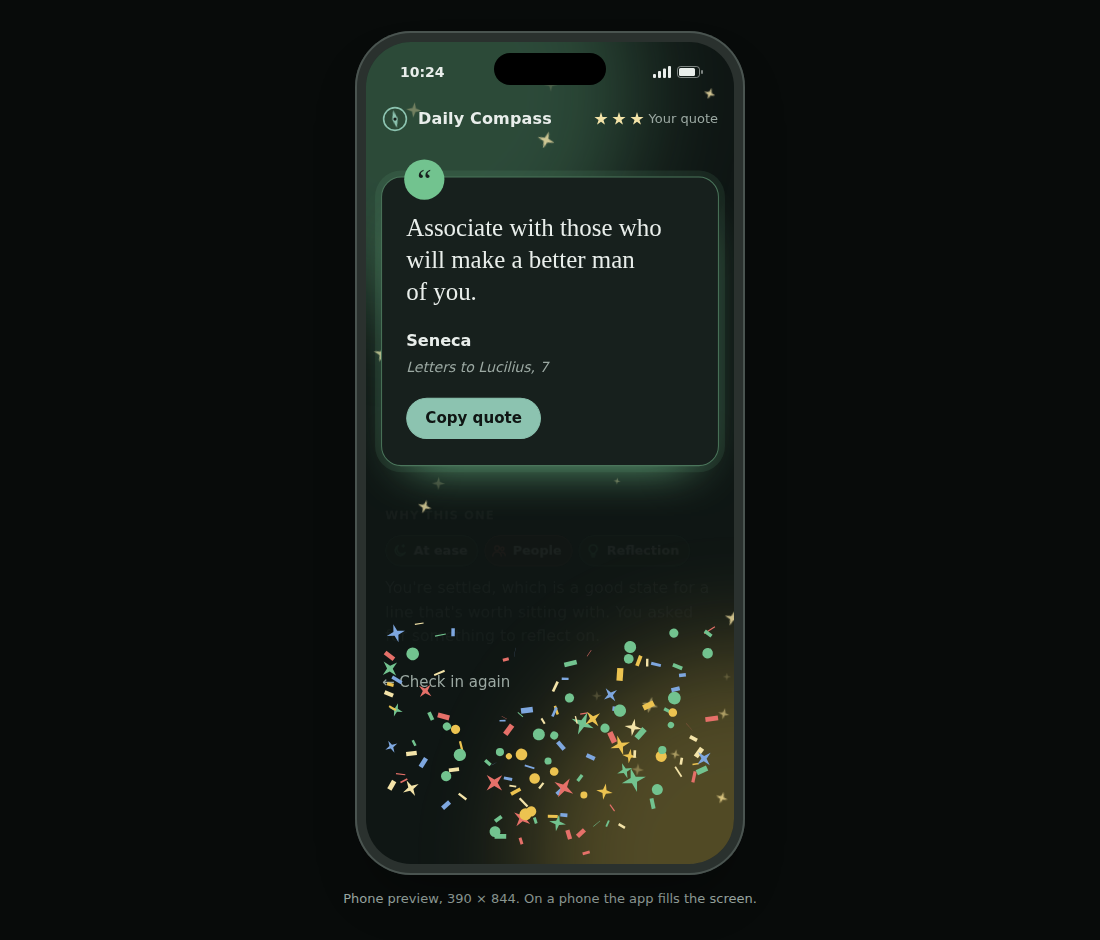
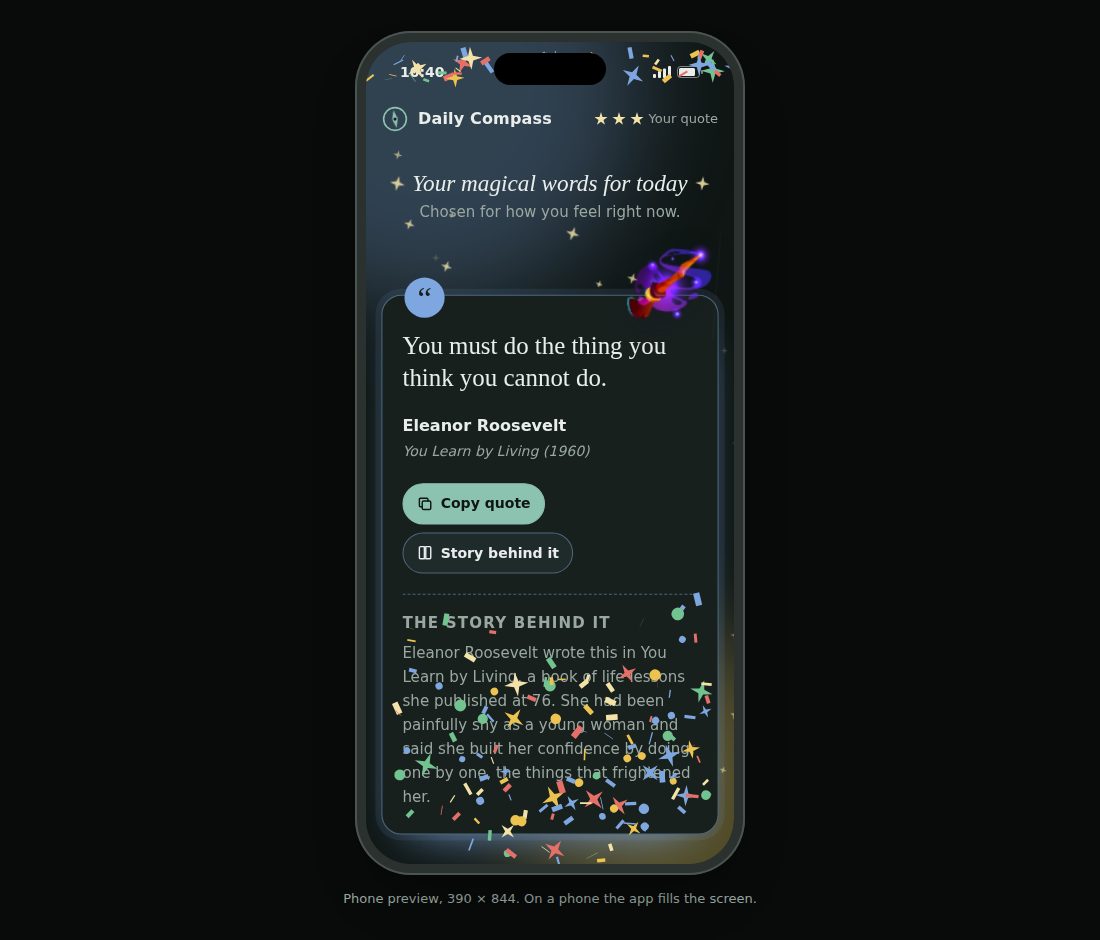
Daily Compass: story behind each quote, daily words, magic charm art
- Add Story behind it: a short sourced background note for all quotes
  (stories.js), toggled under the quote.
- Title the result 'Your magical words for today' and add a come-back-
  tomorrow note with a countdown; remove Check in again. The day's result
  is kept until local midnight (#fresh starts over for testing).
- Show one of five magic charm illustrations with each quote, picked at
  random per quote and day.
- Replace three quotes from religious texts (Thich Nhat Hanh's monastic
  training book, Pema Chodron's teachings, Tagore's prayer) with secular
  ones.

Claude-Session: https://claude.ai/code/session_01Ms5qba7Kw5KonEYGK72kCu

Changed region(s): [[0.34, 0.1543, 0.68, 0.9255], [0.5564, 0.0309, 0.6491, 0.0926], [0.3709, 0.0309, 0.4636, 0.0926]]

diff --git a/quote-app/stories.js b/quote-app/stories.js
@@ -1,0 +1,72 @@
+// "The story behind it": a short, factual background note for every quote in
+// quotes.js, keyed by quote id. Keep each to two or three plain sentences:
+// who said it, where and when, and what was going on.
+window.STORIES = {
+  "seneca-postpone": "Seneca opens his very first letter to his friend Lucilius with this warning. He wrote the letters around 65 AD, after retiring from years as adviser to Emperor Nero, and the whole letter is about time being the only thing we truly own.",
+  "eroosevelt-cannot": "Eleanor Roosevelt wrote this in You Learn by Living, a book of life lessons she published at 76. She had been painfully shy as a young woman and said she built her confidence by doing, one by one, the things that frightened her.",
+  "troosevelt-whatyouhave": "In his 1913 autobiography, Theodore Roosevelt says he heard this from Squire Bill Widener of Widener's Valley, Virginia. Roosevelt called it the best summary of practical duty he knew.",
+  "jobs-hungry": "Steve Jobs ended his 2005 Stanford graduation speech with these words. They were printed on the back cover of the final issue of the Whole Earth Catalog in 1974, a counterculture magazine Jobs loved as a teenager.",
+  "jobs-time": "This comes from the part of Jobs's 2005 Stanford speech about death. A year earlier he had been diagnosed with pancreatic cancer, and he told the students that remembering he would die was the best tool he knew for making big choices.",
+  "gretzky-shots": "Wayne Gretzky, hockey's all-time leading scorer, said this in 1983 when Hockey News editor Bob McKenzie asked why he shot so often. That season he scored 71 goals.",
+  "thoreau-dreams": "This line is from the conclusion of Walden. From 1845 to 1847 Thoreau lived in a small cabin he built himself beside Walden Pond in Massachusetts, as an experiment in living simply and on purpose.",
+  "oliver-wild": "These are the closing lines of \"The Summer Day\". The poet watches a grasshopper eating sugar from her hand, admits she doesn't know exactly what a prayer is, but does know how to pay attention, and then turns the question to the reader.",
+  "clear-systems": "James Clear's Atomic Habits (2018) argues that results come from small daily routines, not from big goals. This line sums up the book's first chapter, and the book has sold over 20 million copies.",
+  "durant-habit": "This is usually credited to Aristotle, but the words are Will Durant's. In The Story of Philosophy (1926) he used them to sum up Aristotle's idea, from the Nicomachean Ethics, that character is built by repeated action.",
+  "aurelius-beone": "Marcus Aurelius was Roman emperor from 161 to 180 AD. Meditations was his private notebook, written in Greek largely during military campaigns, and never meant for anyone else to read.",
+  "mlk-moving": "Martin Luther King Jr. said this to students at Spelman College in Atlanta in April 1967, a year before he was killed. He was urging them to keep working for justice even when progress felt slow.",
+  "tolkien-time": "Gandalf says this to Frodo in the Mines of Moria, when Frodo wishes the Ring had never come to him. Tolkien wrote most of the book during and after World War II.",
+  "seneca-imagination": "From Seneca's 13th letter to Lucilius, which is about fear. He advises checking whether a trouble is actually happening, or only expected, because most of what we dread never arrives.",
+  "epictetus-opinions": "Epictetus was born a slave in the Roman Empire around 50 AD and later became a famous teacher. His student Arrian wrote down his lessons, and this is from the Enchiridion, a pocket handbook of them.",
+  "aurelius-little": "Another note to himself from the emperor's private notebook, Meditations (Book 7). He ruled the most powerful empire on Earth and still reminded himself that contentment comes from how you think.",
+  "lamott-unplug": "Anne Lamott shared this in her 2017 TED talk \"12 truths I learned from life and writing\". The talk lists what she had learned from decades of writing, recovery and raising a son, and this is its most quoted line.",
+  "tolstoy-patience": "In War and Peace, General Kutuzov says this as the Russian army faces Napoleon's invasion in 1812. Instead of risking everything in battle, he waited, and the French army eventually wore itself out and retreated.",
+  "dillard-days": "From The Writing Life (1989), Annie Dillard's short book about the daily work of writing. She argues that a schedule shapes a life, because the small hours add up to the whole.",
+  "watts-dance": "Alan Watts was a British writer who introduced Eastern philosophy to Western readers. In The Wisdom of Insecurity (1951) he argued that chasing total security only makes us more anxious.",
+  "lee-water": "Bruce Lee said this playing a martial-arts teacher in a 1971 episode of the TV series Longstreet. The words were his own philosophy, and he repeated them in an interview the same year.",
+  "saunders-plans": "Many people know this from John Lennon's 1980 song \"Beautiful Boy\", but cartoonist Allen Saunders published it in Reader's Digest in 1957.",
+  "lorde-care": "Audre Lorde wrote this in A Burst of Light (1988), essays from the years she lived with cancer. As a Black lesbian poet and activist, she argued that looking after yourself is strength, not selfishness.",
+  "rogers-like": "Fred Rogers closed many episodes of Mister Rogers' Neighborhood (1968 to 2001) by telling children this. He believed every child needed to hear that they were valued just as they were.",
+  "frost-through": "From \"A Servant to Servants\" (1914), a poem in the voice of an overworked farm wife. She says she sees no way out of her hard life except to keep going through it.",
+  "alcott-storms": "Amy March says this in Little Women (1868). Alcott based the novel on growing up with her three sisters during hard times in Massachusetts.",
+  "beckett-fail": "From Worstward Ho (1983), one of Samuel Beckett's last works. In the original it is quite bleak, but athletes and start-up founders adopted it as a motto about learning from failure.",
+  "jordan-shots": "From a 1997 Nike advert. Before this line, Michael Jordan lists the 9,000 shots he missed and the 26 times he was trusted with the game-winning shot and missed.",
+  "troosevelt-arena": "Theodore Roosevelt said this at the Sorbonne in Paris in April 1910, a year after leaving the presidency. Known as \"The Man in the Arena\", it praises the person who tries over the critic who doesn't.",
+  "gandhi-will": "Gandhi wrote this in his weekly newspaper Young India in August 1920, in an essay called \"The Doctrine of the Sword\". He was explaining why nonviolence takes more courage than violence.",
+  "seneca-live": "From Seneca's 78th letter, written while he was struggling with illness. He tells Lucilius that holding on through a hard time is itself a brave and worthwhile act.",
+  "camus-summer": "From \"Return to Tipasa\" (1952), an essay about Camus revisiting Roman ruins in Algeria, where he grew up, after the dark years of World War II.",
+  "dickinson-hope": "Emily Dickinson wrote nearly 1,800 poems but published fewer than a dozen in her lifetime. This one was found among her papers after she died in 1886.",
+  "tagore-dawn": "Rabindranath Tagore, the first non-European to win the Nobel Prize in Literature (1913), wrote the short poems in Fireflies after travelling in China and Japan, where he saw thoughts written on fans and silk.",
+  "keller-overcoming": "Helen Keller lost her sight and hearing at 19 months old. She wrote this essay, Optimism, in 1903 while studying at Radcliffe College, which she went on to graduate from.",
+  "nietzsche-why": "From Twilight of the Idols (1889), in a section of short sayings. Viktor Frankl later quoted it to explain why prisoners who still had something to live for were more likely to survive the Nazi camps.",
+  "murakami-storm": "From Kafka on the Shore (2002). An inner voice called \"the boy named Crow\" says this to Kafka, a 15-year-old who has run away from home.",
+  "brown-story": "Brené Brown is a researcher at the University of Houston who studies shame and courage. This is from The Gifts of Imperfection (2010), her guide to accepting yourself as you are.",
+  "curie-understand": "Marie Curie is the only person to win Nobel Prizes in two different sciences, physics and chemistry. This line is widely credited to her, and the earliest printed source is a 1973 book, so treat it as attributed.",
+  "baldwin-faced": "James Baldwin wrote this in a 1962 New York Times essay, \"As Much Truth As One Can Bear\". He was arguing that writers, and the country, had to look honestly at America's problems before they could fix them.",
+  "frankl-attitude": "Viktor Frankl was an Austrian psychiatrist who survived Auschwitz and other Nazi camps. He wrote Man's Search for Meaning in nine days in 1946, describing how even there, prisoners kept the freedom to choose their attitude.",
+  "frankl-change": "From the second half of Man's Search for Meaning, where Frankl explains logotherapy, his approach to helping people find meaning when circumstances can't be changed.",
+  "aurelius-obstacle": "In Meditations (5.20), Marcus Aurelius was writing about difficult people: whatever gets in your way becomes your chance to practise patience. Ryan Holiday's 2014 book The Obstacle Is the Way is built on this line.",
+  "socrates-examined": "Socrates said this at his trial in Athens in 399 BC, as recorded by his student Plato. Rather than promise to stop asking questions, he accepted a death sentence.",
+  "rilke-questions": "In 1903 a 19-year-old military cadet, Franz Kappus, sent Rilke his poems and asked for advice. Rilke's ten replies were published in 1929 as Letters to a Young Poet.",
+  "gibran-shell": "From The Prophet (1923), in which a wise man leaving a city answers people's questions about love, work, pain and joy. It has been translated into over 100 languages.",
+  "emerson-trust": "From Emerson's 1841 essay \"Self-Reliance\", which urges people to trust their own judgement instead of following the crowd. It became a founding text of American individualism.",
+  "tagore-errors": "From Stray Birds (1916), a book of very short poems Tagore published in 1916, the year he visited Japan. Many are only one or two lines long.",
+  "dumbledore-choices": "Dumbledore says this to Harry at the end of Chamber of Secrets. Harry is worried he is too much like Voldemort, because the Sorting Hat almost put him in Slytherin.",
+  "seneca-company": "From Seneca's 7th letter, about avoiding crowds. He tells Lucilius that we absorb the habits of the people around us, so choose them carefully.",
+  "aurelius-right": "A short rule the emperor wrote for himself in Meditations (12.17), the last book of his private notebook.",
+  "epictetus-master": "One of the sayings of Epictetus preserved by later writers, not in his main books. He had been a slave himself, so he knew that real freedom starts with self-control.",
+  "keller-together": "Recorded by Joseph Lash in Helen and Teacher (1980), a biography of Helen Keller and her teacher Anne Sullivan. Their partnership lasted almost 50 years.",
+  "brown-connection": "From Brené Brown's 2010 TEDx talk in Houston, \"The power of vulnerability\". It became one of the most-watched TED talks ever.",
+  "angelou-rainbow": "Maya Angelou used this line often in talks and in Letter to My Daughter (2008), her book of short essays. She meant: be the person who brings a bit of hope into someone else's bad day.",
+  "aesop-kindness": "The moral of Aesop's fable \"The Lion and the Mouse\". A lion spares a tiny mouse, and later the mouse frees the lion by gnawing through a hunter's net. Aesop was a storyteller in ancient Greece around 600 BC.",
+  "dalai-compassion": "From The Art of Happiness (1998), written by American psychiatrist Howard Cutler from his conversations with the Dalai Lama about everyday happiness.",
+  "brown-vulnerability": "From Brené Brown's 2012 TED talk \"Listening to shame\", her follow-up to her famous talk on vulnerability.",
+  "mandela-courage": "From Long Walk to Freedom (1994), Nelson Mandela's autobiography. He began writing it in secret during his 27 years in prison, and it came out the year he became South Africa's president.",
+  "leguin-journey": "From The Left Hand of Darkness (1969), Le Guin's novel about a human envoy on an icy planet. The line comes near the end, after a long crossing of a glacier.",
+  "plath-iam": "From The Bell Jar (1963), Sylvia Plath's only novel, drawn from her own depression at 20. In this moment the narrator listens to her heartbeat and hears proof that she is still here.",
+  "morrison-write": "Toni Morrison said this in a 1981 speech to the Ohio Arts Council. She wrote her first novel, The Bluest Eye, early in the morning before her job as a book editor, while raising two sons.",
+  "nemo-swim": "In Pixar's Finding Nemo (2003), Dory, a fish with short-term memory loss, sings this to Marlin as they cross the ocean searching for his son. She can't remember much, but she never stops.",
+  "tolkien-door": "In The Fellowship of the Ring, Frodo remembers his uncle Bilbo saying this as he sets out from the Shire. Bilbo used to say that every road leads to the Great Road, and from there, anywhere.",
+  "angelou-reduced": "From Letter to My Daughter (2008), written when Maya Angelou was 80. She had survived trauma as a child and stopped speaking for five years, and wrote this as advice to the daughters she never had.",
+  "lubbock-rest": "John Lubbock was a British banker, scientist and politician who created Britain's bank holidays in 1871, giving workers their first official days off. This is from his 1894 book The Use of Life.",
+  "proverb-seven": "A Japanese proverb, nana korobi ya oki. It is linked to Daruma dolls, round-bottomed toys that always roll back upright when knocked over, and are a popular good-luck gift for new goals."
+};

diff --git a/quote-app/index.html b/quote-app/index.html
@@ -126,8 +126,11 @@ body {
   .statusbar .icons { display: flex; gap: 6px; align-items: center; }
   header.top { padding-top: 8px; }
   .screen h1 { font-size: 1.85rem; }
-  .screen .quote-card { padding: 34px 24px 26px; }
+  .screen .quote-card { padding: 34px 20px 24px; }
+  .screen .actions .btn { padding: 11px 13px; font-size: 0.875rem; }
   .screen .qtext { font-size: 1.55rem; }
+  .screen .today h1 { font-size: 1.45rem; gap: 8px; }
+  .screen .today h1 .twinkle { width: 13px; height: 13px; }
   .frame-note { display: block; font-size: 0.8125rem; color: var(--muted); margin: 0; text-align: center; }
 }
 
@@ -234,6 +237,18 @@ h1 {
   animation: bloom .8s cubic-bezier(.2, .9, .25, 1.2) both;
 }
 @keyframes bloom { from { opacity: 0; transform: scale(.9) translateY(12px); filter: blur(4px); } }
+.quote-card { margin-top: 46px; }
+.charm {
+  position: absolute; top: -62px; right: -6px; width: 100px; height: 100px; pointer-events: none;
+  animation: pop .8s cubic-bezier(.2, .9, .3, 1.4) .25s both;
+}
+.charm img {
+  width: 100%; height: 100%; display: block; object-fit: contain;
+  filter: drop-shadow(0 10px 14px rgb(20 10 40 / 0.28));
+  animation: float 4.5s ease-in-out infinite;
+}
+@keyframes pop { from { opacity: 0; transform: scale(.3) rotate(-25deg); } }
+@keyframes float { 50% { transform: translateY(-7px) rotate(4deg); } }
 .quote-card .mark {
   position: absolute; top: -18px; left: 22px; width: 40px; height: 40px; border-radius: 50%;
   display: grid; place-items: center; background: var(--c); color: var(--surface);
@@ -247,6 +262,36 @@ blockquote { margin: 0; }
 .qby { margin: 0; font-weight: 600; }
 .qsrc { margin: 2px 0 0; font-size: 0.875rem; color: var(--muted); font-style: italic; }
 .actions { display: flex; flex-wrap: wrap; gap: 8px; align-items: center; }
+.actions .btn { display: inline-flex; align-items: center; gap: 7px; }
+.actions .btn svg { width: 17px; height: 17px; fill: none; stroke: currentColor; stroke-width: 2; stroke-linecap: round; stroke-linejoin: round; }
+.btn.ghost { border-color: color-mix(in srgb, var(--c) 45%, var(--line)); background: color-mix(in srgb, var(--c) 8%, transparent); }
+.btn.ghost:hover { border-color: var(--c); }
+.btn.ghost[aria-expanded="true"] { background: color-mix(in srgb, var(--c) 18%, transparent); }
+.story {
+  border-top: 1px dashed color-mix(in srgb, var(--c) 40%, var(--line)); padding-top: 16px;
+  display: grid; gap: 6px; animation: unfold .4s ease-out both;
+}
+.story p { margin: 0; color: var(--muted); font-size: 0.9375rem; line-height: 1.6; }
+@keyframes unfold { from { opacity: 0; transform: translateY(-6px); } }
+
+.today { display: grid; justify-items: center; gap: 4px; text-align: center; }
+.today h1 {
+  margin: 0; font-style: italic; font-weight: 400; font-size: clamp(1.5rem, 4.6vw, 1.9rem);
+  display: inline-flex; align-items: center; gap: 10px;
+}
+.today h1 .twinkle { width: 16px; height: 16px; background: var(--star); flex: none;
+  clip-path: polygon(50% 0, 61% 39%, 100% 50%, 61% 61%, 50% 100%, 39% 61%, 0 50%, 39% 39%);
+  animation: twinkle 2.4s ease-in-out infinite; opacity: .9; }
+.today h1 .twinkle:last-child { animation-delay: -1.2s; }
+.today p { margin: 0; color: var(--muted); font-size: 0.9375rem; }
+.tomorrow {
+  display: grid; grid-template-columns: auto 1fr; gap: 4px 14px; align-items: center;
+  padding: 16px 18px; border-radius: 18px; border: 1px solid color-mix(in srgb, var(--star) 40%, var(--line));
+  background: color-mix(in srgb, var(--star) 9%, var(--surface)); animation: rise .5s ease-out .7s both;
+}
+.tomorrow .ico { --c: var(--star); grid-row: span 2; }
+.tomorrow strong { font-family: var(--font-display); font-weight: 500; font-size: 1.15rem; }
+.tomorrow span { color: var(--muted); font-size: 0.875rem; font-variant-numeric: tabular-nums; }
 .toast { font-size: 0.875rem; color: var(--accent); margin: 0; }
 .toast:empty { display: none; }
 
@@ -275,6 +320,9 @@ footer p { margin: 0 0 6px; }
 @keyframes leave { to { opacity: 0; transform: translateY(-8px) scale(.99); filter: blur(3px); } }
 
 @media (max-width: 420px) {
+  .actions .btn { padding: 11px 13px; font-size: 0.875rem; }
+  .charm { width: 88px; height: 88px; top: -54px; }
+  .today h1 { font-size: 1.45rem; gap: 8px; }
   .quad .opt { min-height: 140px; padding: 12px; }
   .opt .d { font-size: 0.8125rem; }
 }
@@ -317,6 +365,7 @@ footer p { margin: 0 0 6px; }
 <p class="frame-note">Phone preview, 390 &times; 844. On a phone the app fills the screen.</p>
 
 <script src="quotes.js"></script>
+<script src="stories.js"></script>
 <script>
 (() => {
   // Line icons, 24x24, stroked with the option's colour.
@@ -332,6 +381,8 @@ footer p { margin: 0 0 6px; }
     push: '<path d="M5 15c-1.5 1.3-2 5-2 5s3.7-.5 5-2"/><path d="M9 15 6 12c1-4 5-9 13-9 0 8-5 12-9 13z"/><circle cx="14.5" cy="9.5" r="1.5"/>',
     calm: '<path d="M2 7c2.5-2 4.5-2 7 0s4.5 2 7 0 4.5-2 6 0"/><path d="M2 12c2.5-2 4.5-2 7 0s4.5 2 7 0 4.5-2 6 0"/><path d="M2 17c2.5-2 4.5-2 7 0s4.5 2 7 0 4.5-2 6 0"/>',
     courage: '<path d="M12 22c4 0 7-2.7 7-6.5 0-4-3-6-4-9.5-1 2-2 3-3.5 3.5C11 7 11 4.5 12 2 7 4.5 5 9.5 5 15.5 5 19.3 8 22 12 22z"/>',
+    book: '<path d="M4 4.5A1.5 1.5 0 0 1 5.5 3H11v17H5.5A1.5 1.5 0 0 1 4 18.5z"/><path d="M20 4.5A1.5 1.5 0 0 0 18.5 3H13v17h5.5a1.5 1.5 0 0 0 1.5-1.5z"/>',
+    copy: '<rect x="8" y="8" width="12" height="12" rx="2"/><path d="M16 8V5.5A1.5 1.5 0 0 0 14.5 4h-9A1.5 1.5 0 0 0 4 5.5v9A1.5 1.5 0 0 0 5.5 16H8"/>',
     wisdom: '<path d="M9 18h6M10 21h4"/><path d="M12 3a6 6 0 0 0-3.5 10.9c.6.5 1 1.2 1 2.1h5c0-.9.4-1.6 1-2.1A6 6 0 0 0 12 3z"/>'
   };
   const svg = name => `<svg viewBox="0 0 24 24" aria-hidden="true">${ICON[name]}</svg>`;
@@ -391,6 +442,21 @@ footer p { margin: 0 0 6px; }
     wisdom: "You asked for something to reflect on."
   };
   const W = { n: 3, m: 2, a: 2 };
+
+  // Magic charms shown with the quote. The pick is random per quote and day,
+  // so a reload on the same day shows the same charm.
+  const CHARMS = [
+    { file: "icons/crystal-ball.webp", alt: "A glowing crystal ball" },
+    { file: "icons/spellbook.webp", alt: "A spellbook with a jewel on its cover" },
+    { file: "icons/scroll.webp", alt: "A rolled-up scroll" },
+    { file: "icons/wand.webp", alt: "A magic wand trailing sparkles" },
+    { file: "icons/pouch.webp", alt: "A drawstring pouch with a gem" }
+  ];
+  function charmFor(id) {
+    let h = 0;
+    for (const ch of id + dayKey()) h = (h * 31 + ch.charCodeAt(0)) >>> 0;
+    return CHARMS[h % CHARMS.length];
+  }
 
   const root = document.documentElement;
   const app = document.getElementById("app");
@@ -592,12 +658,26 @@ footer p { margin: 0 0 6px; }
       return { q, s, seen: recent.includes(q.id) ? 1 : 0, r: Math.random() };
     }).sort((x, y) => y.s - x.s || x.seen - y.seen || x.r - y.r)[0].q;
     store.set("dc-recent", [best.id, ...recent.filter(x => x !== best.id)].slice(0, 25));
+    store.set("dc-today", { date: dayKey(), answers: { ...answers }, id: best.id });
     return best;
   }
 
-  function renderResult() {
-    const q = pick();
+  // One set of magical words per day: the result is kept until local midnight.
+  const dayKey = (d = new Date()) => `${d.getFullYear()}-${d.getMonth() + 1}-${d.getDate()}`;
+  function untilTomorrow() {
+    const now = new Date(), next = new Date(now);
+    next.setHours(24, 0, 0, 0);
+    const mins = Math.max(0, Math.ceil((next - now) / 60000));
+    return { mins, text: mins >= 60 ? `${Math.floor(mins / 60)} h ${mins % 60} min` : `${mins} min` };
+  }
+  let countdown = 0;
+
+  function renderResult(saved) {
+    const q = saved || pick();
     const mood = answers.m;
+    const story = (window.STORIES || {})[q.id];
+    const charm = charmFor(q.id);
+    about.hidden = true;
     const chips = ["m", "a", "n"].map(k => {
       const o = OPT[k + answers[k]];
       return `<span class="chip c-${o.c}">${svg(o.i)}${esc(LABEL[k][answers[k]])}</span>`;
@@ -606,15 +686,22 @@ footer p { margin: 0 0 6px; }
       ? `<div class="care"><strong>If today feels heavier than a quote can carry,</strong> talk to someone you trust. In India, Tele-MANAS is free and open 24/7 at <strong>14416</strong>. In the US, call or text <strong>988</strong>. Elsewhere, findahelpline.com lists local services.</div>`
       : "";
 
-    swap(`<section style="display:grid;gap:26px;padding-top:14px" aria-live="polite">
+    swap(`<section style="display:grid;gap:26px;padding-top:6px" aria-live="polite">
+      <div class="today">
+        <h1><span class="twinkle"></span>Your magical words for today<span class="twinkle"></span></h1>
+        <p>${saved ? "Welcome back. These are still yours until midnight." : "Chosen for how you feel right now."}</p>
+      </div>
       <article class="quote-card c-${MOOD_COLOR[mood]}">
         <span class="mark" aria-hidden="true">&ldquo;</span>
+        <span class="charm"><img src="${charm.file}" alt="${charm.alt}" width="100" height="100"></span>
         <blockquote><p class="qtext">${esc(q.t)}</p></blockquote>
         <div><p class="qby">${esc(q.by)}</p><p class="qsrc">${esc(q.src)}</p></div>
         <div class="actions">
-          <button type="button" class="btn primary" id="copy">Copy quote</button>
+          <button type="button" class="btn primary" id="copy">${svg("copy")}Copy quote</button>
+          ${story ? `<button type="button" class="btn ghost" id="story-btn" aria-expanded="false" aria-controls="story">${svg("book")}<span>Story behind it</span></button>` : ""}
           <p class="toast" id="toast"></p>
         </div>
+        ${story ? `<div class="story" id="story" hidden><p class="eyebrow">The story behind it</p><p>${esc(story)}</p></div>` : ""}
       </article>
       <div class="why">
         <p class="eyebrow">Why this one</p>
@@ -622,13 +709,34 @@ footer p { margin: 0 0 6px; }
         <p>${WHY_MOOD[mood]} ${WHY_NEED[answers.n]}</p>
       </div>
       ${care}
-      <div class="nav"><button type="button" class="btn link" id="restart">&larr; Check in again</button></div>
+      <div class="tomorrow">
+        <span class="ico">${svg("ease")}</span>
+        <strong>Come back tomorrow for new magical words.</strong>
+        <span id="countdown">New words in ${untilTomorrow().text}</span>
+      </div>
     </section>`, () => {
-      confetti(mood);
-      document.getElementById("restart").addEventListener("click", () => {
-        for (const k in answers) delete answers[k];
-        step = 0; renderQuestion();
+      if (!saved) confetti(mood);
+      const storyBtn = document.getElementById("story-btn");
+      if (storyBtn) storyBtn.addEventListener("click", () => {
+        const panel = document.getElementById("story");
+        const open = panel.hidden;
+        panel.hidden = !open;
+        storyBtn.setAttribute("aria-expanded", String(open));
+        storyBtn.querySelector("span").textContent = open ? "Hide story" : "Story behind it";
       });
+      clearInterval(countdown);
+      countdown = setInterval(() => {
+        const left = untilTomorrow();
+        const el = document.getElementById("countdown");
+        if (left.mins <= 0 || !el) {
+          clearInterval(countdown);
+          store.set("dc-today", null);
+          for (const k in answers) delete answers[k];
+          step = 0; renderQuestion();
+          return;
+        }
+        el.textContent = `New words in ${left.text}`;
+      }, 30000);
       document.getElementById("copy").addEventListener("click", () => {
         const text = `"${q.t}" — ${q.by}, ${q.src}`;
         const toast = document.getElementById("toast");
@@ -649,7 +757,18 @@ footer p { margin: 0 0 6px; }
   const tick = () => { const d = new Date(); clock.textContent = `${d.getHours() % 12 || 12}:${String(d.getMinutes()).padStart(2, "0")}`; };
   tick(); setInterval(tick, 30000);
 
-  renderQuestion();
+  // Open with #fresh to start a new check-in (for testing).
+  if (location.hash === "#fresh") store.set("dc-today", null);
+  const today = store.get("dc-today", null);
+  const savedQuote = today && today.date === dayKey() && window.QUOTES.find(x => x.id === today.id);
+  if (savedQuote) {
+    Object.assign(answers, today.answers);
+    step = QUESTIONS.length;
+    setAura(answers.m);
+    renderResult(savedQuote);
+  } else {
+    renderQuestion();
+  }
 })();
 </script>
 </body>

diff --git a/quote-app/quotes.js b/quote-app/quotes.js
@@ -34,8 +34,6 @@ window.QUOTES = [
   { id: "epictetus-opinions", t: "Men are disturbed not by things, but by the opinions about things.", by: "Epictetus", src: "Enchiridion, 5", m: ["r"], a: ["people", "work", "setback"], n: ["calm", "wisdom"] },
   { id: "aurelius-little", t: "Very little is needed to make a happy life; it is all within yourself, in your way of thinking.", by: "Marcus Aurelius", src: "Meditations, 7.67", m: ["g", "b", "r"], a: ["self"], n: ["calm", "wisdom"] },
   { id: "lamott-unplug", t: "Almost everything will work again if you unplug it for a few minutes, including you.", by: "Anne Lamott", src: "TED talk, \"12 truths I learned from life and writing\" (2017)", m: ["r", "b"], a: ["work", "self"], n: ["calm"] },
-  { id: "tnh-clouds", t: "Feelings come and go like clouds in a windy sky. Conscious breathing is my anchor.", by: "Thich Nhat Hanh", src: "Stepping into Freedom (1997)", m: ["r", "b"], a: ["self", "people", "setback"], n: ["calm"] },
-  { id: "chodron-sky", t: "You are the sky. Everything else is just the weather.", by: "Pema Chödrön", src: "attributed; widely quoted from her teachings", m: ["r", "b"], a: ["self", "setback"], n: ["calm"] },
   { id: "tolstoy-patience", t: "The two most powerful warriors are patience and time.", by: "Leo Tolstoy", src: "War and Peace (1869)", m: ["r", "g", "b"], a: ["work", "setback"], n: ["calm", "wisdom"] },
   { id: "dillard-days", t: "How we spend our days is, of course, how we spend our lives.", by: "Annie Dillard", src: "The Writing Life (1989)", m: ["g", "y"], a: ["self", "work"], n: ["calm", "wisdom"] },
   { id: "watts-dance", t: "The only way to make sense out of change is to plunge into it, move with it, and join the dance.", by: "Alan Watts", src: "The Wisdom of Insecurity (1951)", m: ["r", "g", "y"], a: ["setback", "self"], n: ["calm", "courage"] },
@@ -55,7 +53,6 @@ window.QUOTES = [
   { id: "camus-summer", t: "In the midst of winter, I found there was, within me, an invincible summer.", by: "Albert Camus", src: "\"Return to Tipasa\" (1952)", m: ["b"], a: ["setback", "self"], n: ["courage"] },
   { id: "dickinson-hope", t: "\"Hope\" is the thing with feathers that perches in the soul, and sings the tune without the words, and never stops at all.", by: "Emily Dickinson", src: "Poem 254 (c. 1861)", m: ["b", "g"], a: ["setback", "self"], n: ["courage", "calm"] },
   { id: "tagore-dawn", t: "Faith is the bird that feels the light and sings when the dawn is still dark.", by: "Rabindranath Tagore", src: "Fireflies (1928)", m: ["b"], a: ["setback", "self"], n: ["courage"] },
-  { id: "tagore-fearless", t: "Let me not pray to be sheltered from dangers, but to be fearless in facing them.", by: "Rabindranath Tagore", src: "Fruit-Gathering (1916)", m: ["r", "b"], a: ["setback", "work"], n: ["courage"] },
   { id: "keller-overcoming", t: "Although the world is full of suffering, it is full also of the overcoming of it.", by: "Helen Keller", src: "Optimism (1903)", m: ["b", "g"], a: ["setback"], n: ["courage", "calm"] },
   { id: "nietzsche-why", t: "If we have our own why of life, we shall get along with almost any how.", by: "Friedrich Nietzsche", src: "Twilight of the Idols (1889)", m: ["b", "r"], a: ["setback", "work", "self"], n: ["courage", "wisdom"] },
   { id: "murakami-storm", t: "When you come out of the storm, you won't be the same person who walked in. That's what this storm's all about.", by: "Haruki Murakami", src: "Kafka on the Shore (2002)", m: ["b", "r"], a: ["setback"], n: ["courage", "wisdom"] },
@@ -90,5 +87,8 @@ window.QUOTES = [
   { id: "plath-iam", t: "I took a deep breath and listened to the old brag of my heart. I am, I am, I am.", by: "Sylvia Plath", src: "The Bell Jar (1963)", m: ["b", "r"], a: ["self", "setback"], n: ["courage"] },
   { id: "morrison-write", t: "If there's a book that you want to read, but it hasn't been written yet, then you must write it.", by: "Toni Morrison", src: "speech to the Ohio Arts Council (1981)", m: ["y", "g"], a: ["work", "self"], n: ["push"] },
   { id: "nemo-swim", t: "Just keep swimming.", by: "Dory", src: "Finding Nemo (Pixar, 2003)", m: ["b", "r", "y"], a: ["setback", "work"], n: ["push", "courage"] },
-  { id: "tolkien-door", t: "It's a dangerous business, Frodo, going out your door. You step onto the road, and if you don't keep your feet, there's no knowing where you might be swept off to.", by: "J.R.R. Tolkien", src: "The Fellowship of the Ring (1954)", m: ["y", "g"], a: ["self", "work"], n: ["push", "courage"] }
+  { id: "tolkien-door", t: "It's a dangerous business, Frodo, going out your door. You step onto the road, and if you don't keep your feet, there's no knowing where you might be swept off to.", by: "J.R.R. Tolkien", src: "The Fellowship of the Ring (1954)", m: ["y", "g"], a: ["self", "work"], n: ["push", "courage"] },
+  { id: "angelou-reduced", t: "You may not control all the events that happen to you, but you can decide not to be reduced by them.", by: "Maya Angelou", src: "Letter to My Daughter (2008)", m: ["r", "b"], a: ["setback", "self", "people"], n: ["calm", "courage"] },
+  { id: "lubbock-rest", t: "Rest is not idleness, and to lie sometimes on the grass under trees on a summer's day, listening to the murmur of the water, or watching the clouds float across the sky, is by no means a waste of time.", by: "John Lubbock", src: "The Use of Life (1894)", m: ["r", "b", "g"], a: ["work", "self"], n: ["calm"] },
+  { id: "proverb-seven", t: "Fall seven times, stand up eight.", by: "Japanese proverb", src: "nana korobi ya oki", m: ["b", "r"], a: ["setback", "work"], n: ["courage", "push"] }
 ];

diff --git a/quote-app/README.md b/quote-app/README.md
@@ -20,8 +20,16 @@ Each option has its own line illustration and colour. The background is a slowly
 
 If someone reports feeling low and is dealing with a setback or asks for courage, the result also shows helpline numbers (Tele-MANAS 14416 in India, 988 in the US, findahelpline.com elsewhere).
 
+## Result screen
+The result is titled "Your magical words for today". It shows the quote with one of five magic charm illustrations (crystal ball, spellbook, scroll, wand, pouch), chosen at random per quote and day. Under the quote, **Copy quote** copies it, and **Story behind it** opens a short background note from `stories.js`: who said it, where, and what was going on. A note at the bottom says to come back tomorrow, with a countdown to midnight.
+
+The result is kept for the rest of the day: reopening the app shows the same words until local midnight, then the check-in starts again. To test a fresh check-in, open the page with `#fresh` at the end of the URL.
+
 ## Quotes
-67 quotes, each with its author and source, all from secular works: books, poems, letters, speeches, interviews and films. Nothing is taken from religious scriptures or devotional texts (for example the Bhagavad Gita, Tao Te Ching, Upanishads, Bible or Quran). Popular lines that are commonly misattributed (for example "Be the change you wish to see in the world" credited to Gandhi) are excluded. To add one, append an object to `quotes.js` with `m`, `a` and `n` tags.
+67 quotes, each with its author and source, all from secular works: books, poems, letters, speeches, interviews and films. Nothing is taken from religious scriptures or devotional texts (for example the Bhagavad Gita, Tao Te Ching, Upanishads, Bible or Quran). Popular lines that are commonly misattributed (for example "Be the change you wish to see in the world" credited to Gandhi) are excluded. To add one, append an object to `quotes.js` with `m`, `a` and `n` tags, and add its background note to `stories.js` under the same id.
+
+## Artwork
+The charm illustrations in `icons/` are cut from a licensed Shutterstock vector set (image 2589828173), with the background removed and exported as 320px WebP. The original EPS is not stored in this repo.
 
 ## Sources
 - Yale Center for Emotional Intelligence, RULER: [The Mood Meter](https://www.rulerapproach.org/wp-content/uploads/2020/07/MoodMeter_FC.pdf)
